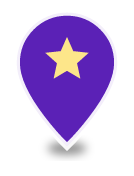
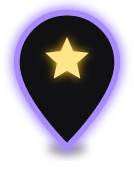
Statistik: "mest ute på" stämmer vid lika många (helgerna / lika mycket på …, alla lika dagar i guld). Karta: skattnålarna svarta med lila glöd i kanten och en lysande stjärna (guld när den är hittad), samma nål i Statistik; mindre glöd bakom tärningen; hjärtat på platskorten på frostat glas

diff --git a/app/stats.tsx b/app/stats.tsx
@@ -23,7 +23,7 @@ import Reanimated, {
 } from "react-native-reanimated";
 import { Gesture, GestureDetector } from "react-native-gesture-handler";
 import { Canvas, Circle, DashPathEffect, LinearGradient, Path, Skia, vec, BlurMask } from "@shopify/react-native-skia";
-import Svg, { Path as SvgPath, Polygon, Rect, Circle as SvgCircle } from "react-native-svg";
+import Svg, { Path as SvgPath, Rect, Circle as SvgCircle } from "react-native-svg";
 import { useSafeAreaInsets } from "react-native-safe-area-context";
 import { useRouter } from "expo-router";
 import * as Haptics from "expo-haptics";
@@ -44,6 +44,7 @@ import { pushOnce } from "@/lib/navigateOnce";
 import { POLAROID_PAPER, POLAROID_TAPE } from "@/lib/polaroid";
 import { StreakFlame } from "@/components/streak/StreakFlame";
 import { PlacePin } from "@/components/PlacePin";
+import { TreasurePin } from "@/components/stickers/TreasurePin";
 
 // Österlenlegendens guldtrofé — den man får för att klara allt
 const TROPHY_ART = require("../assets/badges/osterlenlegend-gold.png");
@@ -180,7 +181,7 @@ export default function StatsScreen() {
             <Tile index={0} icon={<PlacePin height={25} />} value={stats.visitCount} label="Besök" />
             <Tile index={1} icon={<Heart size={21} color={HEART_RED} fill={HEART_RED} strokeWidth={2} />} value={favorites.length} label="Favoriter" />
             <Tile index={2} icon={<MiniPolaroid />} value={memories.length} label="Minnen" />
-            <Tile index={3} icon={<TreasurePin />} value={`${treasures}/${collectibles.length || 24}`} label="Skatter" />
+            <Tile index={3} icon={<TreasurePin height={25} />} value={`${treasures}/${collectibles.length || 24}`} label="Skatter" />
             <Tile index={4} icon={<Image source={TROPHY_ART} style={{ width: 27, height: 27 }} resizeMode="contain" />} value={`${trophiesDone}/${trophies.length}`} label="Utmaningar" />
             <Tile index={5} icon={<View style={{ marginTop: -4 }}><StreakFlame compact size={22} /></View>} value={longestStreak} label="Längsta streak" />
           </View>
@@ -252,20 +253,6 @@ function MiniPolaroid() {
       <SvgPath d="M5.2 14.2 L9.5 10.6 L13 13.6 L15.6 11.6 L18.8 14.2 L18.8 17.4 L5.2 17.4 Z" fill="#4F7A52" transform="rotate(-7 12 13)" />
       <SvgCircle cx={15.6} cy={8.4} r={1.4} fill="#F6E7A8" transform="rotate(-7 12 13)" />
       <Rect x={8.5} y={1} width={7} height={3.6} fill={POLAROID_TAPE} transform="rotate(-7 12 13)" />
-    </Svg>
-  );
-}
-
-/** Skatternas kartnål: lila med guldstjärna (samma form som StickerPin på kartan) */
-const STAR = "12,5.8 13.5,9.2 17.2,9.6 14.4,12.1 15.2,15.8 12,13.9 8.8,15.8 9.6,12.1 6.8,9.6 10.5,9.2";
-function TreasurePin() {
-  return (
-    <Svg width={19} height={25} viewBox="0 0 24 32">
-      <SvgPath
-        d="M12 0C5.373 0 0 5.373 0 12c0 8.5 12 20 12 20S24 20.5 24 12C24 5.373 18.627 0 12 0z"
-        fill="#5B21B6" stroke="rgba(0,0,0,0.25)" strokeWidth={1}
-      />
-      <Polygon points={STAR} fill="#FDE68A" />
     </Svg>
   );
 }
@@ -532,19 +519,34 @@ const WEEK_H = 90;
 
 /** Besök per veckodag som staplar — höjden efter antalet, den vanligaste dagen i guld */
 function WeekdayBars({ counts }: { counts: number[] }) {
-  const max = Math.max(1, ...counts);
-  const best = counts.indexOf(Math.max(...counts));
+  const top = Math.max(...counts);
+  const max = Math.max(1, top);
+  // Alla dagar som delar förstaplatsen (1 på lördag och 1 på söndag är lika — då är man inte
+  // "mest ute på lördagar")
+  const best = top > 0 ? counts.flatMap((c, i) => (c === top ? [i] : [])) : [];
+  const isBest = (i: number) => best.includes(i);
+  const weekend = best.length === 2 && best[0] === 5 && best[1] === 6;
+  const names = best.map((i) => WEEKDAY_NAMES[i]);
+  const list = names.length > 1 ? `${names.slice(0, -1).join(", ")} och ${names[names.length - 1]}` : names[0];
   return (
     <View>
-      <Text style={s.weekText}>Du är mest ute på <Text style={{ color: GOLD }}>{WEEKDAY_NAMES[best]}</Text></Text>
+      {best.length === 0 ? (
+        <Text style={s.weekText}>Inga besök än</Text>
+      ) : weekend ? (
+        <Text style={s.weekText}>Du är mest ute på <Text style={{ color: GOLD }}>helgerna</Text></Text>
+      ) : best.length > 1 ? (
+        <Text style={s.weekText}>Du är lika mycket ute på <Text style={{ color: GOLD }}>{list}</Text></Text>
+      ) : (
+        <Text style={s.weekText}>Du är mest ute på <Text style={{ color: GOLD }}>{list}</Text></Text>
+      )}
       <View style={s.weekRow}>
         {counts.map((c, i) => (
           <View key={i} style={s.weekCol}>
-            <Text style={[s.weekCount, i === best && { color: GOLD }]}>{c}</Text>
+            <Text style={[s.weekCount, isBest(i) && { color: GOLD }]}>{c}</Text>
             <View style={s.weekArea}>
-              <WeekBar fraction={c / max} highlight={i === best && c > 0} delay={150 + i * 50} />
+              <WeekBar fraction={c / max} highlight={isBest(i)} delay={150 + i * 50} />
             </View>
-            <Text style={[s.weekLabel, i === best && { color: FG }]}>{WEEKDAYS[i]}</Text>
+            <Text style={[s.weekLabel, isBest(i) && { color: FG }]}>{WEEKDAYS[i]}</Text>
           </View>
         ))}
       </View>

diff --git a/scripts/render-map-pins.js b/scripts/render-map-pins.js
@@ -5,7 +5,7 @@
 //
 // - Platser: svart nål i mörkt läge, vit i ljust (som klumparna), med kategorins färg som prick.
 // - Service: samma nål med typens ikon i guld (Lucide-ikonerna Toilet, Plug, Store, HeartPulse).
-// - Skatter: lila med stjärna (hittade: mörklila med gul stjärna), större när de är valda.
+// - Skatter: svarta med lila glöd i kanten och en lysande stjärna (hittade: guldstjärna), större när de är valda.
 const fs = require("fs");
 const path = require("path");
 const { Resvg } = require("@resvg/resvg-js");
@@ -91,11 +91,21 @@ for (const [theme, t] of Object.entries(THEMES)) {
     pins[`pin-svc-${key}-${theme}`] = { markup: svg(t.body, t.edge, t.edgeOpacity, iconMark(paths, t.icon)), scale: 1.15 };
   }
 }
-const treasure = (fill, starColor) => svg(fill, "#FFFFFF", 0.92, `<polygon points="${STAR}" fill="${starColor}"/>`);
-pins["pin-treasure"] = { markup: treasure("#A78BFA", "#FFFFFF"), scale: 1 };
-pins["pin-treasure-selected"] = { markup: treasure("#A78BFA", "#FFFFFF"), scale: 1.4 };
-pins["pin-treasure-found"] = { markup: treasure("#5B21B6", "#FDE68A"), scale: 1 };
-pins["pin-treasure-found-selected"] = { markup: treasure("#5B21B6", "#FDE68A"), scale: 1.4 };
+// Skatterna: svart nål med lila glöd i kanten och en stjärna som lyser lite (hittad: guldstjärna)
+const treasure = (star, starGlow) => `<svg xmlns="http://www.w3.org/2000/svg" width="${W}" height="${H}" viewBox="0 0 ${W} ${H}">
+  ${shadow}
+  <defs><filter id="g" x="-50%" y="-50%" width="200%" height="200%"><feGaussianBlur stdDeviation="1.1"/></filter></defs>
+  <g transform="translate(4 3)">
+    <path d="${PIN}" fill="none" stroke="#A78BFA" stroke-width="2.8" stroke-opacity="0.95" filter="url(#g)"/>
+    <path d="${PIN}" fill="#111113" stroke="#A78BFA" stroke-width="1.4"/>
+    <polygon points="${STAR}" fill="${starGlow}" filter="url(#g)"/>
+    <polygon points="${STAR}" fill="${star}"/>
+  </g>
+</svg>`;
+pins["pin-treasure"] = { markup: treasure("#F3EEFF", "#C4B5FD"), scale: 1 };
+pins["pin-treasure-selected"] = { markup: treasure("#F3EEFF", "#C4B5FD"), scale: 1.4 };
+pins["pin-treasure-found"] = { markup: treasure("#FDE68A", "#FBBF24"), scale: 1 };
+pins["pin-treasure-found-selected"] = { markup: treasure("#FDE68A", "#FBBF24"), scale: 1.4 };
 
 let n = 0;
 for (const [name, { markup, scale }] of Object.entries(pins)) {

diff --git a/app/(tabs)/map.tsx b/app/(tabs)/map.tsx
@@ -3,7 +3,7 @@
  * appens tema (mapStyle.ts).
  *
  * - Nålar i temats färg (svarta i mörkt läge, vita i ljust) med kategorins färg som prick; skatterna
- *   lila med stjärna. Den valda platsen blir en guldnål som studsar in. Med en kategori vald visas
+ *   svarta med lila glöd och en lysande stjärna. Den valda platsen blir en guldnål som studsar in. Med en kategori vald visas
  *   platserna som sina loggor. Nålar som skulle hamna nästan ovanpå varandra slås ihop till
  *   klumpar i samma färger (se lib/mapFilters). En klump som inte går att zooma isär (platserna
  *   ligger på samma ställe) visar platsernas kort direkt.
@@ -1074,7 +1074,7 @@ function MapButtons({
   }, [shuffling, spin, pulse]);
   const diceStyle = useAnimatedStyle(() => ({
     transform: [{ scale: pulse.value * press.value }, { rotate: `${spin.value + (1 - press.value) * -200}deg` }],
-    shadowOpacity: shuffling ? 0.7 : 0.45,
+    shadowOpacity: shuffling ? 0.4 : 0.22,
   }));
   const locatePress = useSharedValue(1);
   const locateStyle = useAnimatedStyle(() => ({ transform: [{ scale: locatePress.value }] }));
@@ -1345,7 +1345,7 @@ const s = StyleSheet.create({
   dice: {
     width: 56, height: 56, borderRadius: 28, alignItems: "center", justifyContent: "center",
     backgroundColor: GOLD, borderWidth: 1, borderColor: "rgba(0,0,0,0.2)",
-    shadowColor: GOLD, shadowOffset: { width: 0, height: 8 }, shadowRadius: 14, elevation: 10,
+    shadowColor: GOLD, shadowOffset: { width: 0, height: 4 }, shadowRadius: 8, elevation: 5,
   },
   locate: {
     width: 56, height: 56, borderRadius: 28, alignItems: "center", justifyContent: "center", overflow: "hidden",

diff --git a/src/components/stickers/TreasurePin.tsx b/src/components/stickers/TreasurePin.tsx
@@ -1,0 +1,32 @@
+/**
+ * Skattnålen som symbol — samma som skatterna på kartan (scripts/render-map-pins.js): svart nål
+ * med lila glöd i kanten och en stjärna som lyser lite. En hittad skatt har guldstjärna.
+ * Används där skatter visas som en siffra (Statistik).
+ */
+import Svg, { Circle, Defs, Path, Polygon, RadialGradient, Stop } from "react-native-svg";
+
+const PIN = "M12 0C5.373 0 0 5.373 0 12c0 8.5 12 20 12 20S24 20.5 24 12C24 5.373 18.627 0 12 0z";
+const STAR = "12,5.8 13.5,9.2 17.2,9.6 14.4,12.1 15.2,15.8 12,13.9 8.8,15.8 9.6,12.1 6.8,9.6 10.5,9.2";
+const PURPLE = "#A78BFA";
+
+export function TreasurePin({ height = 24, found = true }: { height?: number; found?: boolean }) {
+  const star = found ? "#FDE68A" : "#F3EEFF";
+  const glow = found ? "#FBBF24" : "#C4B5FD";
+  return (
+    // Luft runt nålen för glöden
+    <Svg width={(height * 30) / 38} height={height} viewBox="-3 -3 30 38">
+      <Defs>
+        <RadialGradient id="treasureStarGlow" cx="12" cy="11" r="7" gradientUnits="userSpaceOnUse">
+          <Stop offset="0" stopColor={glow} stopOpacity={0.75} />
+          <Stop offset="1" stopColor={glow} stopOpacity={0} />
+        </RadialGradient>
+      </Defs>
+      {/* Glöden: samma kant i lila, bredare och svagare utåt */}
+      <Path d={PIN} fill="none" stroke={PURPLE} strokeOpacity={0.14} strokeWidth={5.5} />
+      <Path d={PIN} fill="none" stroke={PURPLE} strokeOpacity={0.3} strokeWidth={3.4} />
+      <Path d={PIN} fill="#111113" stroke={PURPLE} strokeWidth={1.4} />
+      <Circle cx={12} cy={11} r={7} fill="url(#treasureStarGlow)" />
+      <Polygon points={STAR} fill={star} />
+    </Svg>
+  );
+}

diff --git a/src/components/map/PlaceCard.tsx b/src/components/map/PlaceCard.tsx
@@ -20,6 +20,7 @@ import Reanimated, {
 import { Gesture, GestureDetector } from "react-native-gesture-handler";
 import { Image as ExpoImage } from "expo-image";
 import { LinearGradient } from "expo-linear-gradient";
+import { BlurView } from "expo-blur";
 import { ArrowRight, Bus, Clock, MapPin, Navigation } from "lucide-react-native";
 import { firstImageUrl, isPlaceOpen, type Place } from "@/hooks/usePlaces";
 import { findCategory } from "@/theme/categories";
@@ -240,7 +241,9 @@ const PlaceCardView = memo(function PlaceCardView({
             style={StyleSheet.absoluteFill}
             pointerEvents="none"
           />
+          {/* Hjärtat på frostat glas, som kartans filterknapp och navigeringen */}
           <View style={s.heart}>
+            <BlurView intensity={20} tint="dark" style={[StyleSheet.absoluteFill, { backgroundColor: "rgba(0,0,0,0.5)" }]} />
             <HeartButton isFav={saved} onToggle={() => onToggleSave(place.id)} onBurst={onBurst} size={18} outline="#FFFFFF" />
           </View>
           <View style={s.text} pointerEvents="none">
@@ -305,7 +308,7 @@ const s = StyleSheet.create({
   image: { height: IMAGE_H, overflow: "hidden" },
   heart: {
     position: "absolute", top: 12, right: 12, width: 40, height: 40, borderRadius: 20, alignItems: "center", justifyContent: "center",
-    backgroundColor: "rgba(0,0,0,0.45)", borderWidth: 1, borderColor: "rgba(255,255,255,0.12)",
+    overflow: "hidden", borderWidth: 1, borderColor: "rgba(255,255,255,0.08)",
   },
   text: { position: "absolute", left: 14, right: 14, bottom: 12 },
   name: {

diff --git a/src/components/map/MapPins.tsx b/src/components/map/MapPins.tsx
@@ -3,7 +3,7 @@
  *
  * - Vanliga nålar: klassiska droppformade nålar i temats färg — svarta i mörkt läge, vita i ljust,
  *   som klumparna — med kategorins färg som prick. Servicenålarna har typens ikon i guld, skatterna
- *   är lila med stjärna. Färdiga bilder (assets/map-pins, scripts/render-map-pins.js) som Google
+ *   är svarta med lila glöd i kanten och en lysande stjärna. Färdiga bilder (assets/map-pins, scripts/render-map-pins.js) som Google
  *   Kartor ritar själv som ikoner — snabbast möjligt, inget ritas om när kartan rör sig.
  *   Klumparna och listans numrerade nålar är också färdiga bilder (mapIcons.ts).
  * - SelectedPin: det man valt (plats eller servicepunkt) — en större guldnål som studsar in.
